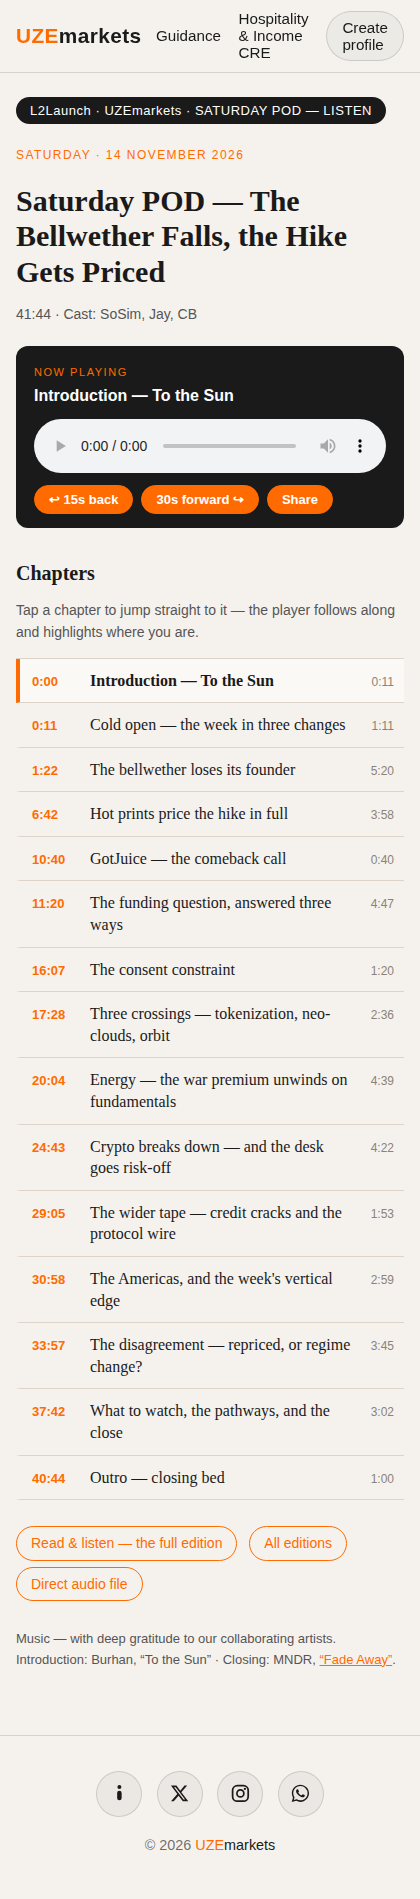
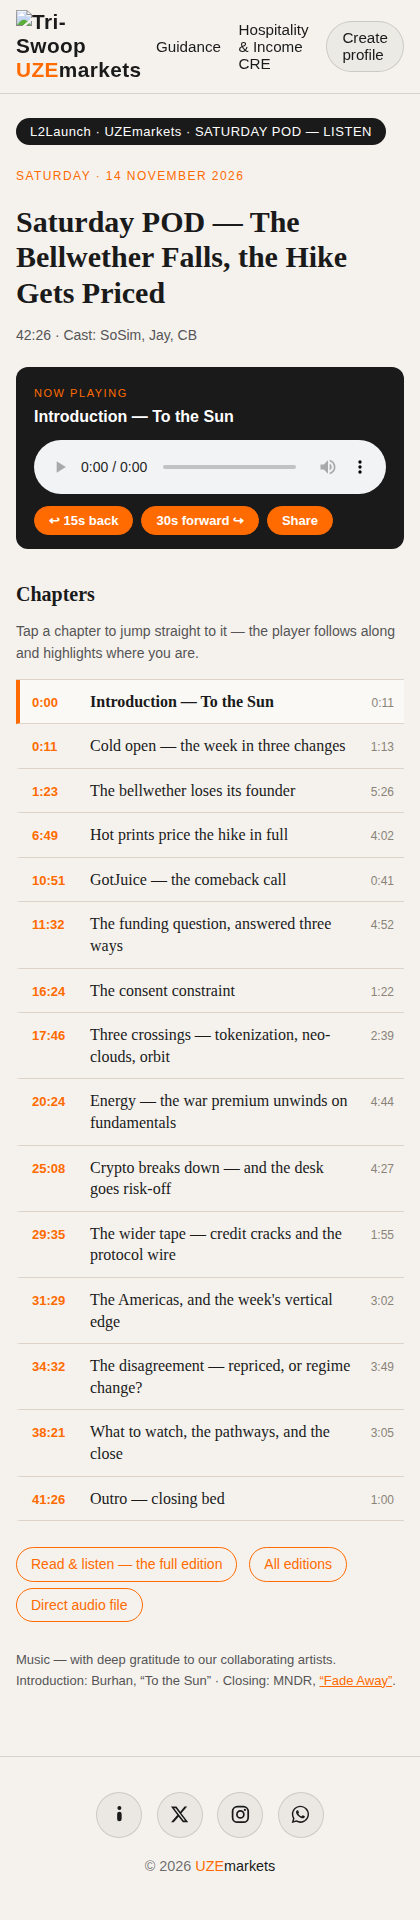
Tri-Swoop lockup on every podcast page (Hammond's positioning law): small swoop top-left, immediately LEFT of the tangerine UZE in the wordmark — index, Nov 14 article + listen, Nov 7 article + listen

diff --git a/apps/uze-web/public/pod/2026-11-14.html b/apps/uze-web/public/pod/2026-11-14.html
@@ -94,7 +94,7 @@
 {"@type":"ListItem","position":1,"item":{"@type":"MusicRecording","name":"To the Sun","byArtist":{"@type":"MusicGroup","name":"Burhan"},"url":"https://open.spotify.com/track/4Lb2JNnTxHrXZY5th8BOaq","description":"Introduction music."}},
 {"@type":"ListItem","position":2,"item":{"@type":"MusicRecording","name":"Fade Away","byArtist":{"@type":"MusicGroup","name":"MNDR"},"url":"https://open.spotify.com/track/58mfdGe04zPj69BHCTpTIb","description":"Closing music — closing-track credit of the edition."}}]}
 </script>
-</head><body><header class="site-header"><div class="bar"><a class="brand" href="https://uzemarkets.com/"><span class="wm-uze">UZE</span><span class="wm-markets">markets</span></a><nav class="hd-links"><a href="https://uzemarkets.com/guidance">Guidance</a><a href="https://blog.uzemarkets.com">Hospitality &amp; Income CRE</a><a class="quick" href="https://uzemarkets.com/onboard">Create profile</a></nav></div></header><main>
+</head><body><header class="site-header"><div class="bar"><a class="brand" href="https://uzemarkets.com/"><img class="swoop" src="https://dev.uzemarkets.com/swoop.png" alt="Tri-Swoop" style="height:26px;width:auto;vertical-align:-7px;margin-right:.45rem"><span class="wm-uze">UZE</span><span class="wm-markets">markets</span></a><nav class="hd-links"><a href="https://uzemarkets.com/guidance">Guidance</a><a href="https://blog.uzemarkets.com">Hospitality &amp; Income CRE</a><a class="quick" href="https://uzemarkets.com/onboard">Create profile</a></nav></div></header><main>
 <span class="brand">L2Launch · UZEmarkets · SATURDAY POD</span>
 <h1>The Bellwether Falls, the Hike Gets Priced</h1>
 <p class="meta">Saturday POD · November 14, 2026 · Edition 3 · 42:26<br>UZEmarkets Week In Review &amp; Alpha from our agentic research team.<br>Cast: SoSim (host) · Jay (skeptic / evidence) · CB (builder / mechanism)</p>

diff --git a/apps/uze-web/public/pod/2026-11-07.html b/apps/uze-web/public/pod/2026-11-07.html
@@ -74,7 +74,7 @@
 {"@type":"ListItem","position":1,"item":{"@type":"MusicRecording","name":"To the Sun","byArtist":{"@type":"MusicGroup","name":"Burhan"},"url":"https://open.spotify.com/track/4Lb2JNnTxHrXZY5th8BOaq","description":"Introduction music."}},
 {"@type":"ListItem","position":2,"item":{"@type":"MusicRecording","name":"AKIRA where is my soul","byArtist":{"@type":"MusicGroup","name":"BABEL"},"url":"https://open.spotify.com/track/3ViG8iMQXEII2quA6mqt0n","description":"Closing music."}}]}
 </script>
-</head><body><header class="site-header"><div class="bar"><a class="brand" href="https://uzemarkets.com/"><span class="wm-uze">UZE</span><span class="wm-markets">markets</span></a><nav class="hd-links"><a href="https://uzemarkets.com/guidance">Guidance</a><a href="https://blog.uzemarkets.com">Hospitality &amp; Income CRE</a><a class="quick" href="https://uzemarkets.com/onboard">Create profile</a></nav></div></header><main>
+</head><body><header class="site-header"><div class="bar"><a class="brand" href="https://uzemarkets.com/"><img class="swoop" src="https://dev.uzemarkets.com/swoop.png" alt="Tri-Swoop" style="height:26px;width:auto;vertical-align:-7px;margin-right:.45rem"><span class="wm-uze">UZE</span><span class="wm-markets">markets</span></a><nav class="hd-links"><a href="https://uzemarkets.com/guidance">Guidance</a><a href="https://blog.uzemarkets.com">Hospitality &amp; Income CRE</a><a class="quick" href="https://uzemarkets.com/onboard">Create profile</a></nav></div></header><main>
 <span class="brand">L2Launch · UZEmarkets · SATURDAY POD</span>
 <h1>UZEmarkets on NEAR — Intents, Verified AI, and the Attribution Record</h1>
 <p class="meta">Saturday POD · November 7, 2026<br>UZEmarkets Week In Review &amp; Alpha from our agentic research team.<br>Cast: SoSim (host) · Jay (skeptic / evidence) · CB (builder / mechanism)</p>

diff --git a/apps/uze-web/public/pod/index.html b/apps/uze-web/public/pod/index.html
@@ -62,7 +62,7 @@
   .alpha-chip{font-family:Helvetica,Arial,sans-serif;font-size:13px;border:1px solid #1a1a1a;border-radius:999px;padding:5px 14px;background:#ffffff}
   .alpha-chip.first{background:#1a1a1a;color:#ffffff}
   .comp-note{font-family:Helvetica,Arial,sans-serif;font-size:13px;margin:12px 0 6px}
-</style></head><body><header class="site-header"><div class="bar"><a class="brand" href="https://uzemarkets.com/"><span class="wm-uze">UZE</span><span class="wm-markets">markets</span></a><nav class="hd-links"><a href="https://uzemarkets.com/guidance">Guidance</a><a href="https://blog.uzemarkets.com">Hospitality &amp; Income CRE</a><a class="quick" href="https://uzemarkets.com/onboard">Create profile</a></nav></div></header><main>
+</style></head><body><header class="site-header"><div class="bar"><a class="brand" href="https://uzemarkets.com/"><img class="swoop" src="https://dev.uzemarkets.com/swoop.png" alt="Tri-Swoop" style="height:26px;width:auto;vertical-align:-7px;margin-right:.45rem"><span class="wm-uze">UZE</span><span class="wm-markets">markets</span></a><nav class="hd-links"><a href="https://uzemarkets.com/guidance">Guidance</a><a href="https://blog.uzemarkets.com">Hospitality &amp; Income CRE</a><a class="quick" href="https://uzemarkets.com/onboard">Create profile</a></nav></div></header><main>
 <span class="brand">L2Launch · UZEmarkets · EDITIONS INDEX</span>
 <h1>Every edition, week by week</h1>
 <p class="meta">The Saturday POD and the UZEmarkets audio postings, newest first. Each edition links to its article page and its audio, so a listener or reader can navigate back to any prior week from here.</p>

diff --git a/apps/uze-web/public/pod/2026-11-07-listen.html b/apps/uze-web/public/pod/2026-11-07-listen.html
@@ -71,7 +71,7 @@
   .wm-uze{color:#ff6b00}
   .wm-markets{color:#1a1a1a}
 .wm-uze-link{text-decoration:none;color:inherit}
-</style></head><body><header class="site-header"><div class="bar"><a class="brand" href="https://uzemarkets.com/"><span class="wm-uze">UZE</span><span class="wm-markets">markets</span></a><nav class="hd-links"><a href="https://uzemarkets.com/guidance">Guidance</a><a href="https://blog.uzemarkets.com">Hospitality &amp; Income CRE</a><a class="quick" href="https://uzemarkets.com/onboard">Create profile</a></nav></div></header><main>
+</style></head><body><header class="site-header"><div class="bar"><a class="brand" href="https://uzemarkets.com/"><img class="swoop" src="https://dev.uzemarkets.com/swoop.png" alt="Tri-Swoop" style="height:26px;width:auto;vertical-align:-7px;margin-right:.45rem"><span class="wm-uze">UZE</span><span class="wm-markets">markets</span></a><nav class="hd-links"><a href="https://uzemarkets.com/guidance">Guidance</a><a href="https://blog.uzemarkets.com">Hospitality &amp; Income CRE</a><a class="quick" href="https://uzemarkets.com/onboard">Create profile</a></nav></div></header><main>
 <span class="brand">L2Launch · UZEmarkets · SATURDAY POD — LISTEN</span>
 <p class="edition-date">Saturday · 7 November 2026</p>
 <h1>Saturday POD — UZEmarkets on NEAR: Intents, Verified AI, and the Attribution Record</h1>

diff --git a/apps/uze-web/public/pod/2026-11-14-listen.html b/apps/uze-web/public/pod/2026-11-14-listen.html
@@ -71,7 +71,7 @@
   .wm-uze{color:#ff6b00}
   .wm-markets{color:#1a1a1a}
 .wm-uze-link{text-decoration:none;color:inherit}
-</style></head><body><header class="site-header"><div class="bar"><a class="brand" href="https://uzemarkets.com/"><span class="wm-uze">UZE</span><span class="wm-markets">markets</span></a><nav class="hd-links"><a href="https://uzemarkets.com/guidance">Guidance</a><a href="https://blog.uzemarkets.com">Hospitality &amp; Income CRE</a><a class="quick" href="https://uzemarkets.com/onboard">Create profile</a></nav></div></header><main>
+</style></head><body><header class="site-header"><div class="bar"><a class="brand" href="https://uzemarkets.com/"><img class="swoop" src="https://dev.uzemarkets.com/swoop.png" alt="Tri-Swoop" style="height:26px;width:auto;vertical-align:-7px;margin-right:.45rem"><span class="wm-uze">UZE</span><span class="wm-markets">markets</span></a><nav class="hd-links"><a href="https://uzemarkets.com/guidance">Guidance</a><a href="https://blog.uzemarkets.com">Hospitality &amp; Income CRE</a><a class="quick" href="https://uzemarkets.com/onboard">Create profile</a></nav></div></header><main>
 <span class="brand">L2Launch · UZEmarkets · SATURDAY POD — LISTEN</span>
 <p class="edition-date">Saturday · 14 November 2026</p>
 <h1>Saturday POD — The Bellwether Falls, the Hike Gets Priced</h1>

diff --git a/apps/uze-web/public/pod/2026-11-14-listen.html.gate/report.md b/apps/uze-web/public/pod/2026-11-14-listen.html.gate/report.md
@@ -1,7 +1,7 @@
 # Design gate report
 
 - Target: /home/hatch/workspace/uze-gira/monorepo/apps/uze-web/public/pod/2026-11-14-listen.html
-- When: 2026-11-20T12:33:50.712Z
+- When: 2026-11-20T15:01:53.085Z
 - Chrome: /home/hatch/.cache/puppeteer/chrome/linux-157.0.8103.50/chrome-linux64/chrome
 - Verdict: FAIL
 - Failures:

diff --git a/apps/uze-web/public/pod/2026-11-14.html.gate/report.md b/apps/uze-web/public/pod/2026-11-14.html.gate/report.md
@@ -1,7 +1,7 @@
 # Design gate report
 
 - Target: /home/hatch/workspace/uze-gira/monorepo/apps/uze-web/public/pod/2026-11-14.html
-- When: 2026-11-20T14:32:37.752Z
+- When: 2026-11-20T15:01:48.063Z
 - Chrome: /home/hatch/.cache/puppeteer/chrome/linux-157.0.8103.50/chrome-linux64/chrome
 - Verdict: FAIL
 - Failures:

diff --git a/apps/uze-web/public/pod/index.html.gate/report.md b/apps/uze-web/public/pod/index.html.gate/report.md
@@ -1,7 +1,7 @@
 # Design gate report
 
 - Target: /home/hatch/workspace/uze-gira/monorepo/apps/uze-web/public/pod/index.html
-- When: 2026-11-20T14:51:38.249Z
+- When: 2026-11-20T15:01:42.905Z
 - Chrome: /home/hatch/.cache/puppeteer/chrome/linux-157.0.8103.50/chrome-linux64/chrome
 - Verdict: FAIL
 - Failures:
